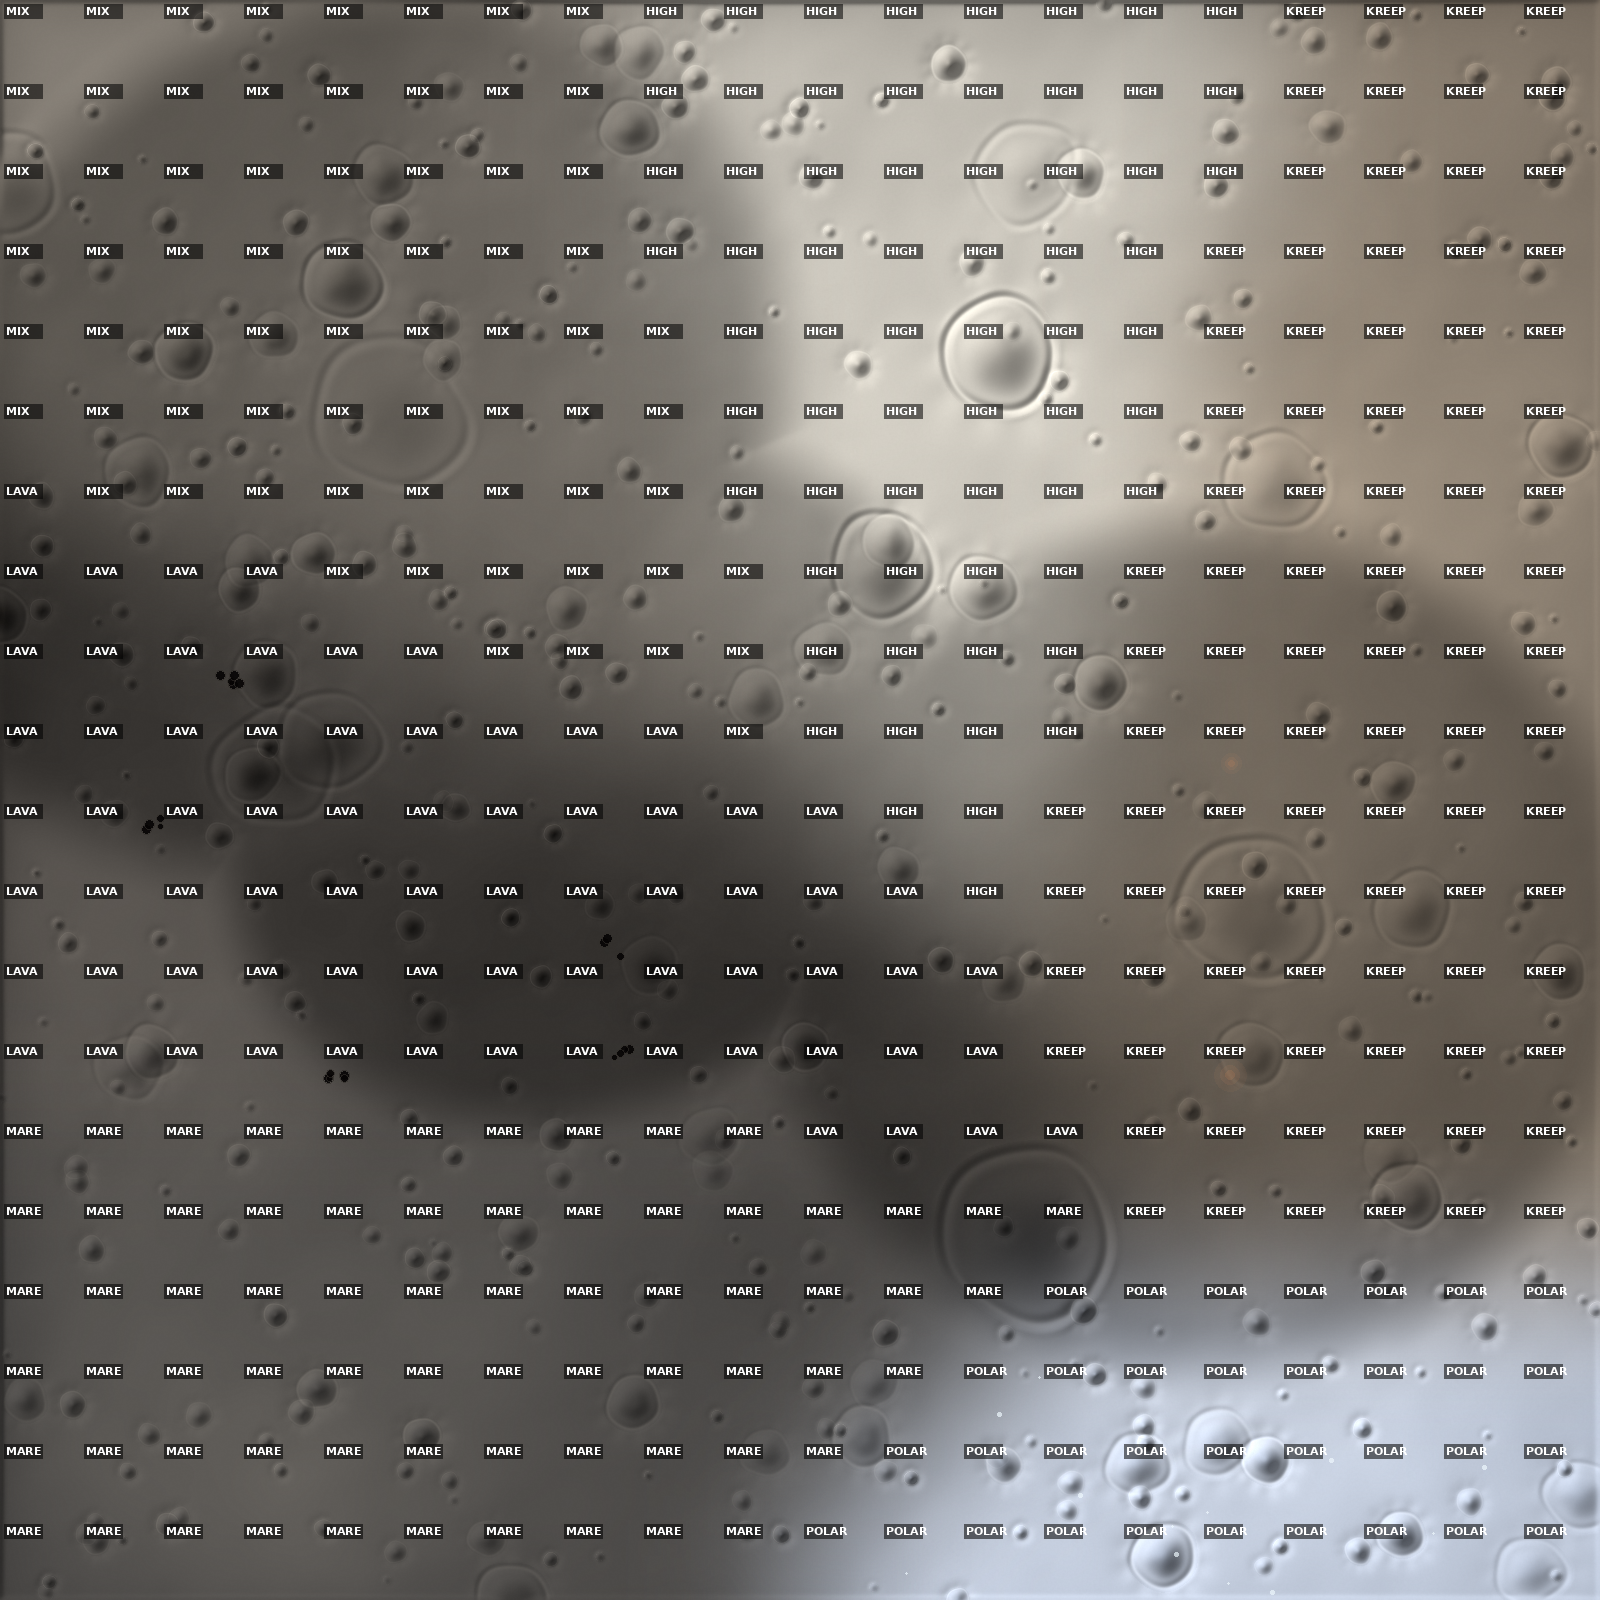
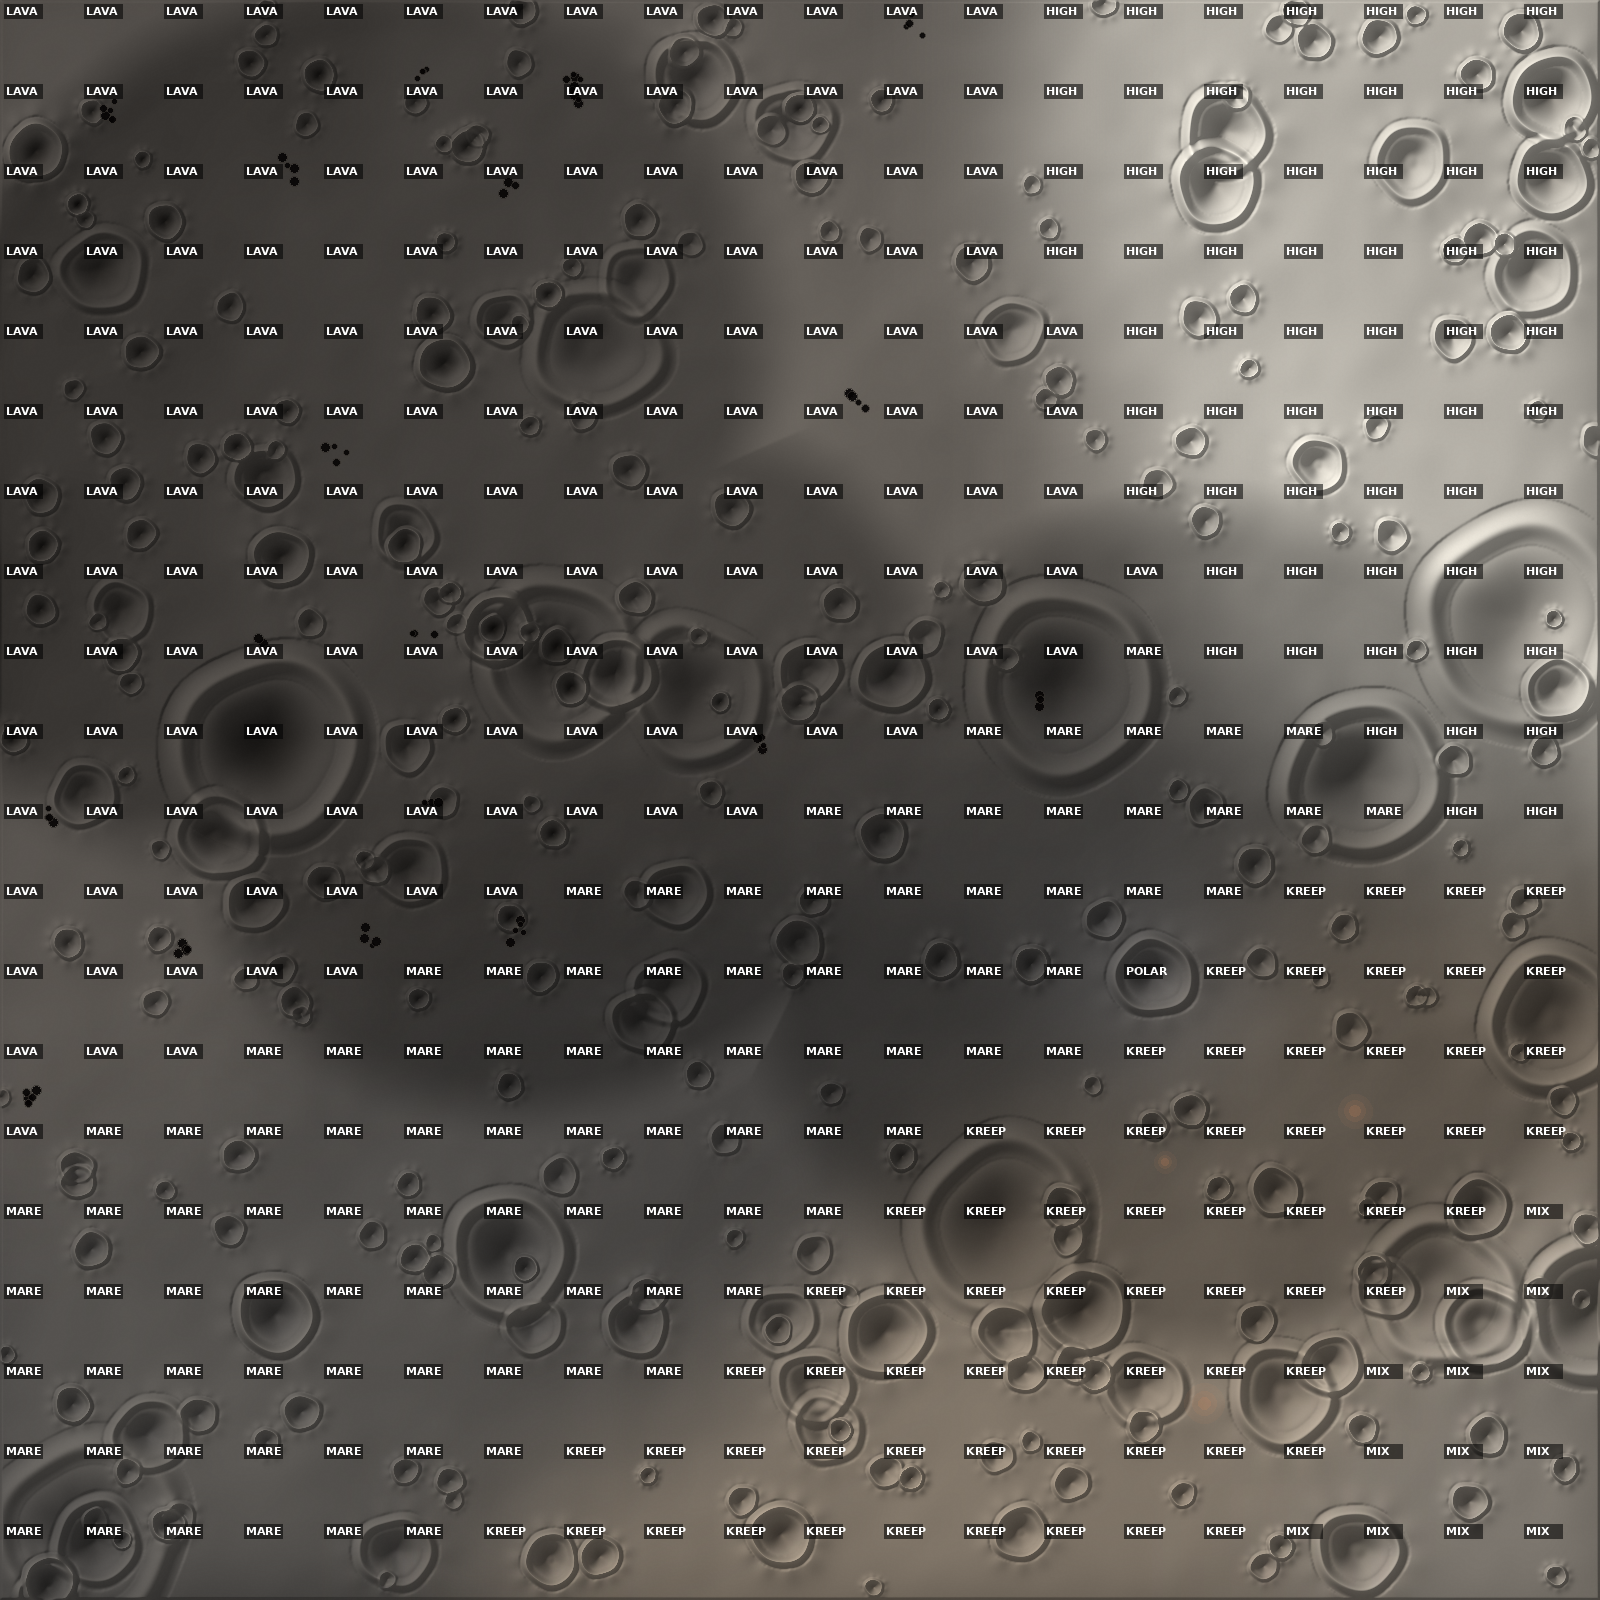
fix(prototype): correct hillshade aspect formula
Previous formula was atan2(-dx, dy) which is rotated 90° from the ESRI
convention. Result: craters were shaded as if they were hills lit from
the SW, which the user correctly flagged as not looking like craters.

Correct formula is atan2(dy, -dx). With this fix, depressions now show
the expected pattern: bright crescent on the inner SE wall (lit by NW
sun), dark crescent on the inner NW wall, plus the proper raised-rim
NW-bright SE-dark shading.

Also widened the crater rim profile (sigma 0.06 -> 0.12 of radius) and
deepened the bowl floor so craters survive the pre-blur and read clearly
at the full-planet zoom level. Bumped minimum crater radius to 8 px for
the same reason.

Adds sanity_crater.py — a tiny test sheet that renders a uniform NW
ramp, a raised hill, and a depression crater side by side. The hill
should look NW-bright SE-dark and the crater should look opposite.
Useful for catching this kind of bug next time.

https://claude.ai/code/session_014xZZbBkCGkgHdGrMSpJjDx

diff --git a/prototypes/planet_visuals/generate.py b/prototypes/planet_visuals/generate.py
@@ -194,13 +194,15 @@ class Crater:
     has_peak: bool
 
 
-def sample_craters(shape, rng, count_small=350, count_med=70, count_big=12):
+def sample_craters(shape, rng, count_small=220, count_med=70, count_big=14):
     h, w = shape
     craters = []
-    # power law: many small, few big
-    for n, rmin, rmax in [(count_small, 4, 14),
-                          (count_med, 14, 36),
-                          (count_big, 36, 90)]:
+    # power law: many small, few big. Min radius 8 so the rim is at least a
+    # couple of pixels wide after pre-blur — otherwise small craters lose
+    # all their relief.
+    for n, rmin, rmax in [(count_small, 8, 18),
+                          (count_med, 18, 42),
+                          (count_big, 42, 110)]:
         for _ in range(n):
             craters.append(Crater(
                 cx=rng.uniform(0, w),
@@ -242,31 +244,38 @@ def apply_craters(height, craters, rng=None):
                  + 0.025 * np.sin(5 * ang + a3))
         d = d * (1.0 + irreg * (0.5 + 0.5 * c.age))
 
-        floor_mask = d < 0.80
-        rim_mask = (d >= 0.80) & (d < 1.08)
-        ejecta_mask = (d >= 1.08) & (d < ej)
+        # Wider rim so it survives any pre-blur. Sharp inner wall transition
+        # so the lit/shadow contrast is strong.
+        floor_mask = d < 0.75
+        rim_mask = (d >= 0.75) & (d < 1.20)
+        ejecta_mask = (d >= 1.20) & (d < ej)
 
         sharp = 1.0 - c.age * 0.7
-        depth = -0.42 * sharp
-        rim = 0.18 * sharp
-        ej_h = 0.06 * sharp
+        depth = -0.65 * sharp
+        rim = 0.28 * sharp
+        ej_h = 0.05 * sharp
 
         delta = np.zeros_like(d, dtype=np.float32)
-        # smooth bowl floor (cosine instead of parabola: less point-bottom)
-        fd = d[floor_mask] / 0.80
-        delta[floor_mask] = depth * (0.5 + 0.5 * np.cos(fd * math.pi))
-        # rim peak around d=0.95, narrower than before so light falls off fast
+        # Bowl floor: rises sharply near rim (steep wall) and flattens at
+        # center. (1 - smoothstep(0..0.75, d)) gives a deep flat-ish floor.
+        fd = d[floor_mask] / 0.75
+        # invert smoothstep so center=1, edge=0
+        s = 1.0 - fd
+        floor_profile = s * s * (3.0 - 2.0 * s)
+        delta[floor_mask] = depth * floor_profile
+        # Rim profile: wider Gaussian centered just outside d=0.95 so it
+        # forms a real raised ridge. sigma=0.12 is a fat, readable rim.
         rim_d = d[rim_mask]
-        rim_shape = np.exp(-((rim_d - 0.95) / 0.06) ** 2)
+        rim_shape = np.exp(-((rim_d - 0.95) / 0.12) ** 2)
         delta[rim_mask] = rim * rim_shape
-        # ejecta blanket — broader, gentler, and broken up by ang noise
+        # Ejecta: low broken bumps
         ed = d[ejecta_mask]
         ea = ang[ejecta_mask]
         ej_break = 0.5 + 0.5 * np.sin(ea * 5.0 + a1) ** 2
-        delta[ejecta_mask] = ej_h * np.exp(-((ed - 1.08) / 0.45) ** 2) * ej_break
+        delta[ejecta_mask] = ej_h * np.exp(-((ed - 1.20) / 0.45) ** 2) * ej_break
 
         if c.has_peak and c.r > 22 and sharp > 0.45:
-            delta += 0.10 * sharp * np.exp(-(d * 4.5) ** 2)
+            delta += 0.18 * sharp * np.exp(-(d * 4.5) ** 2)
 
         height[y0:y1, x0:x1] += delta
     return height
@@ -276,8 +285,8 @@ def apply_craters(height, craters, rng=None):
 # Step 4 — hillshade
 # ---------------------------------------------------------------------------
 
-def hillshade(height, azimuth_deg=315.0, altitude_deg=42.0, z_factor=45.0,
-              smooth_px=2.8):
+def hillshade(height, azimuth_deg=315.0, altitude_deg=35.0, z_factor=75.0,
+              smooth_px=1.0):
     """Lambertian shading. azimuth=315 -> sun from NW. Returns 0..1.
 
     `smooth_px` pre-blurs the heightmap so micro-noise doesn't dominate the
@@ -287,9 +296,14 @@ def hillshade(height, azimuth_deg=315.0, altitude_deg=42.0, z_factor=45.0,
     h = gaussian_blur(height, smooth_px) if smooth_px > 0 else height
     az = math.radians(360.0 - azimuth_deg + 90.0)
     alt = math.radians(altitude_deg)
+    # np.gradient on a 2D array returns (gradient along axis 0, axis 1) =
+    # (∂h/∂y_image_south, ∂h/∂x_east). Standard hillshade aspect (the
+    # downhill compass direction) in math-radian form is atan2(dy, -dx).
+    # The previous atan2(-dx, dy) was 90° rotated — it shaded craters as
+    # if they were hills lit from the SW.
     dy, dx = np.gradient(h * z_factor)
     slope = np.arctan(np.hypot(dx, dy))
-    aspect = np.arctan2(-dx, dy)
+    aspect = np.arctan2(dy, -dx)
     shaded = (np.sin(alt) * np.cos(slope)
               + np.cos(alt) * np.sin(slope) * np.cos(az - aspect))
     return np.clip(shaded, 0.0, 1.0)

diff --git a/prototypes/planet_visuals/sanity_crater.py b/prototypes/planet_visuals/sanity_crater.py
@@ -1,0 +1,80 @@
+"""Sanity test: render ONE big crater. Verify rim/bowl light direction
+reads as a depression, not a bump. Iterates parameters and saves a
+small comparison sheet."""
+
+import math
+import os
+
+import numpy as np
+from PIL import Image, ImageDraw, ImageFont
+
+from generate import (apply_craters, Crater, hillshade,
+                      gaussian_blur, label_image)
+
+OUT = os.path.join(os.path.dirname(__file__), "output")
+
+
+def render_one(r, smooth_px, z_factor, label, mode="crater"):
+    size = 400
+    h = np.zeros((size, size), dtype=np.float32)
+    rng = np.random.default_rng(0)
+    if mode == "crater":
+        crater = Crater(cx=size / 2, cy=size / 2, r=r,
+                        age=0.05, has_peak=False)
+        h = apply_craters(h, [crater], rng)
+    elif mode == "hill":
+        # raised gaussian dome — opposite sign of a crater bowl
+        yy, xx = np.mgrid[0:size, 0:size].astype(np.float32)
+        d = np.hypot(xx - size / 2, yy - size / 2)
+        h = 0.4 * np.exp(-(d / r) ** 2)
+    elif mode == "ramp_NW":
+        # height increases toward NW corner: this surface should be brightest
+        # in the NW under NW sun. If lighting math is right, this looks like
+        # a uniform bright gradient.
+        yy, xx = np.mgrid[0:size, 0:size].astype(np.float32)
+        h = ((size - xx) + (size - yy)) / (2.0 * size) * 0.4
+    sh = hillshade(h, z_factor=z_factor, smooth_px=smooth_px)
+    rgb = (sh * 255).astype(np.uint8)
+    img = Image.fromarray(np.stack([rgb, rgb, rgb], axis=-1))
+    img = label_image(img, label, font_size=14)
+    return img
+
+
+def main():
+    rows = []
+    # row 1: NW ramp — should be uniform-bright if hillshade math is right
+    rows.append(render_row("NW ramp", "ramp_NW"))
+    # row 2: hill (raised dome) — NW side should be bright, SE dark
+    rows.append(render_row("hill (dome)", "hill"))
+    # row 3: crater (depression) — should look like inner SE bright,
+    # inner NW dark
+    rows.append(render_row("crater (depression)", "crater"))
+
+    sheet_h = sum(r.size[1] for r in rows) + 6 * (len(rows) - 1)
+    sheet = Image.new("RGB", (rows[0].size[0], sheet_h), (16, 16, 18))
+    y = 0
+    for r in rows:
+        sheet.paste(r, (0, y))
+        y += r.size[1] + 6
+    sheet.save(os.path.join(OUT, "sanity_crater.png"))
+    print("wrote", os.path.join(OUT, "sanity_crater.png"))
+
+
+def render_row(title, mode):
+    cells = []
+    for smooth_px, z_factor in [(0.0, 30), (0.6, 50), (1.5, 70)]:
+        cells.append(render_one(
+            120, smooth_px, z_factor,
+            f"{title}  blur={smooth_px} z={z_factor}",
+            mode=mode))
+    w = 400 * len(cells) + 6 * (len(cells) - 1)
+    row = Image.new("RGB", (w, 400), (16, 16, 18))
+    x = 0
+    for c in cells:
+        row.paste(c, (x, 0))
+        x += 400 + 6
+    return row
+
+
+if __name__ == "__main__":
+    main()
